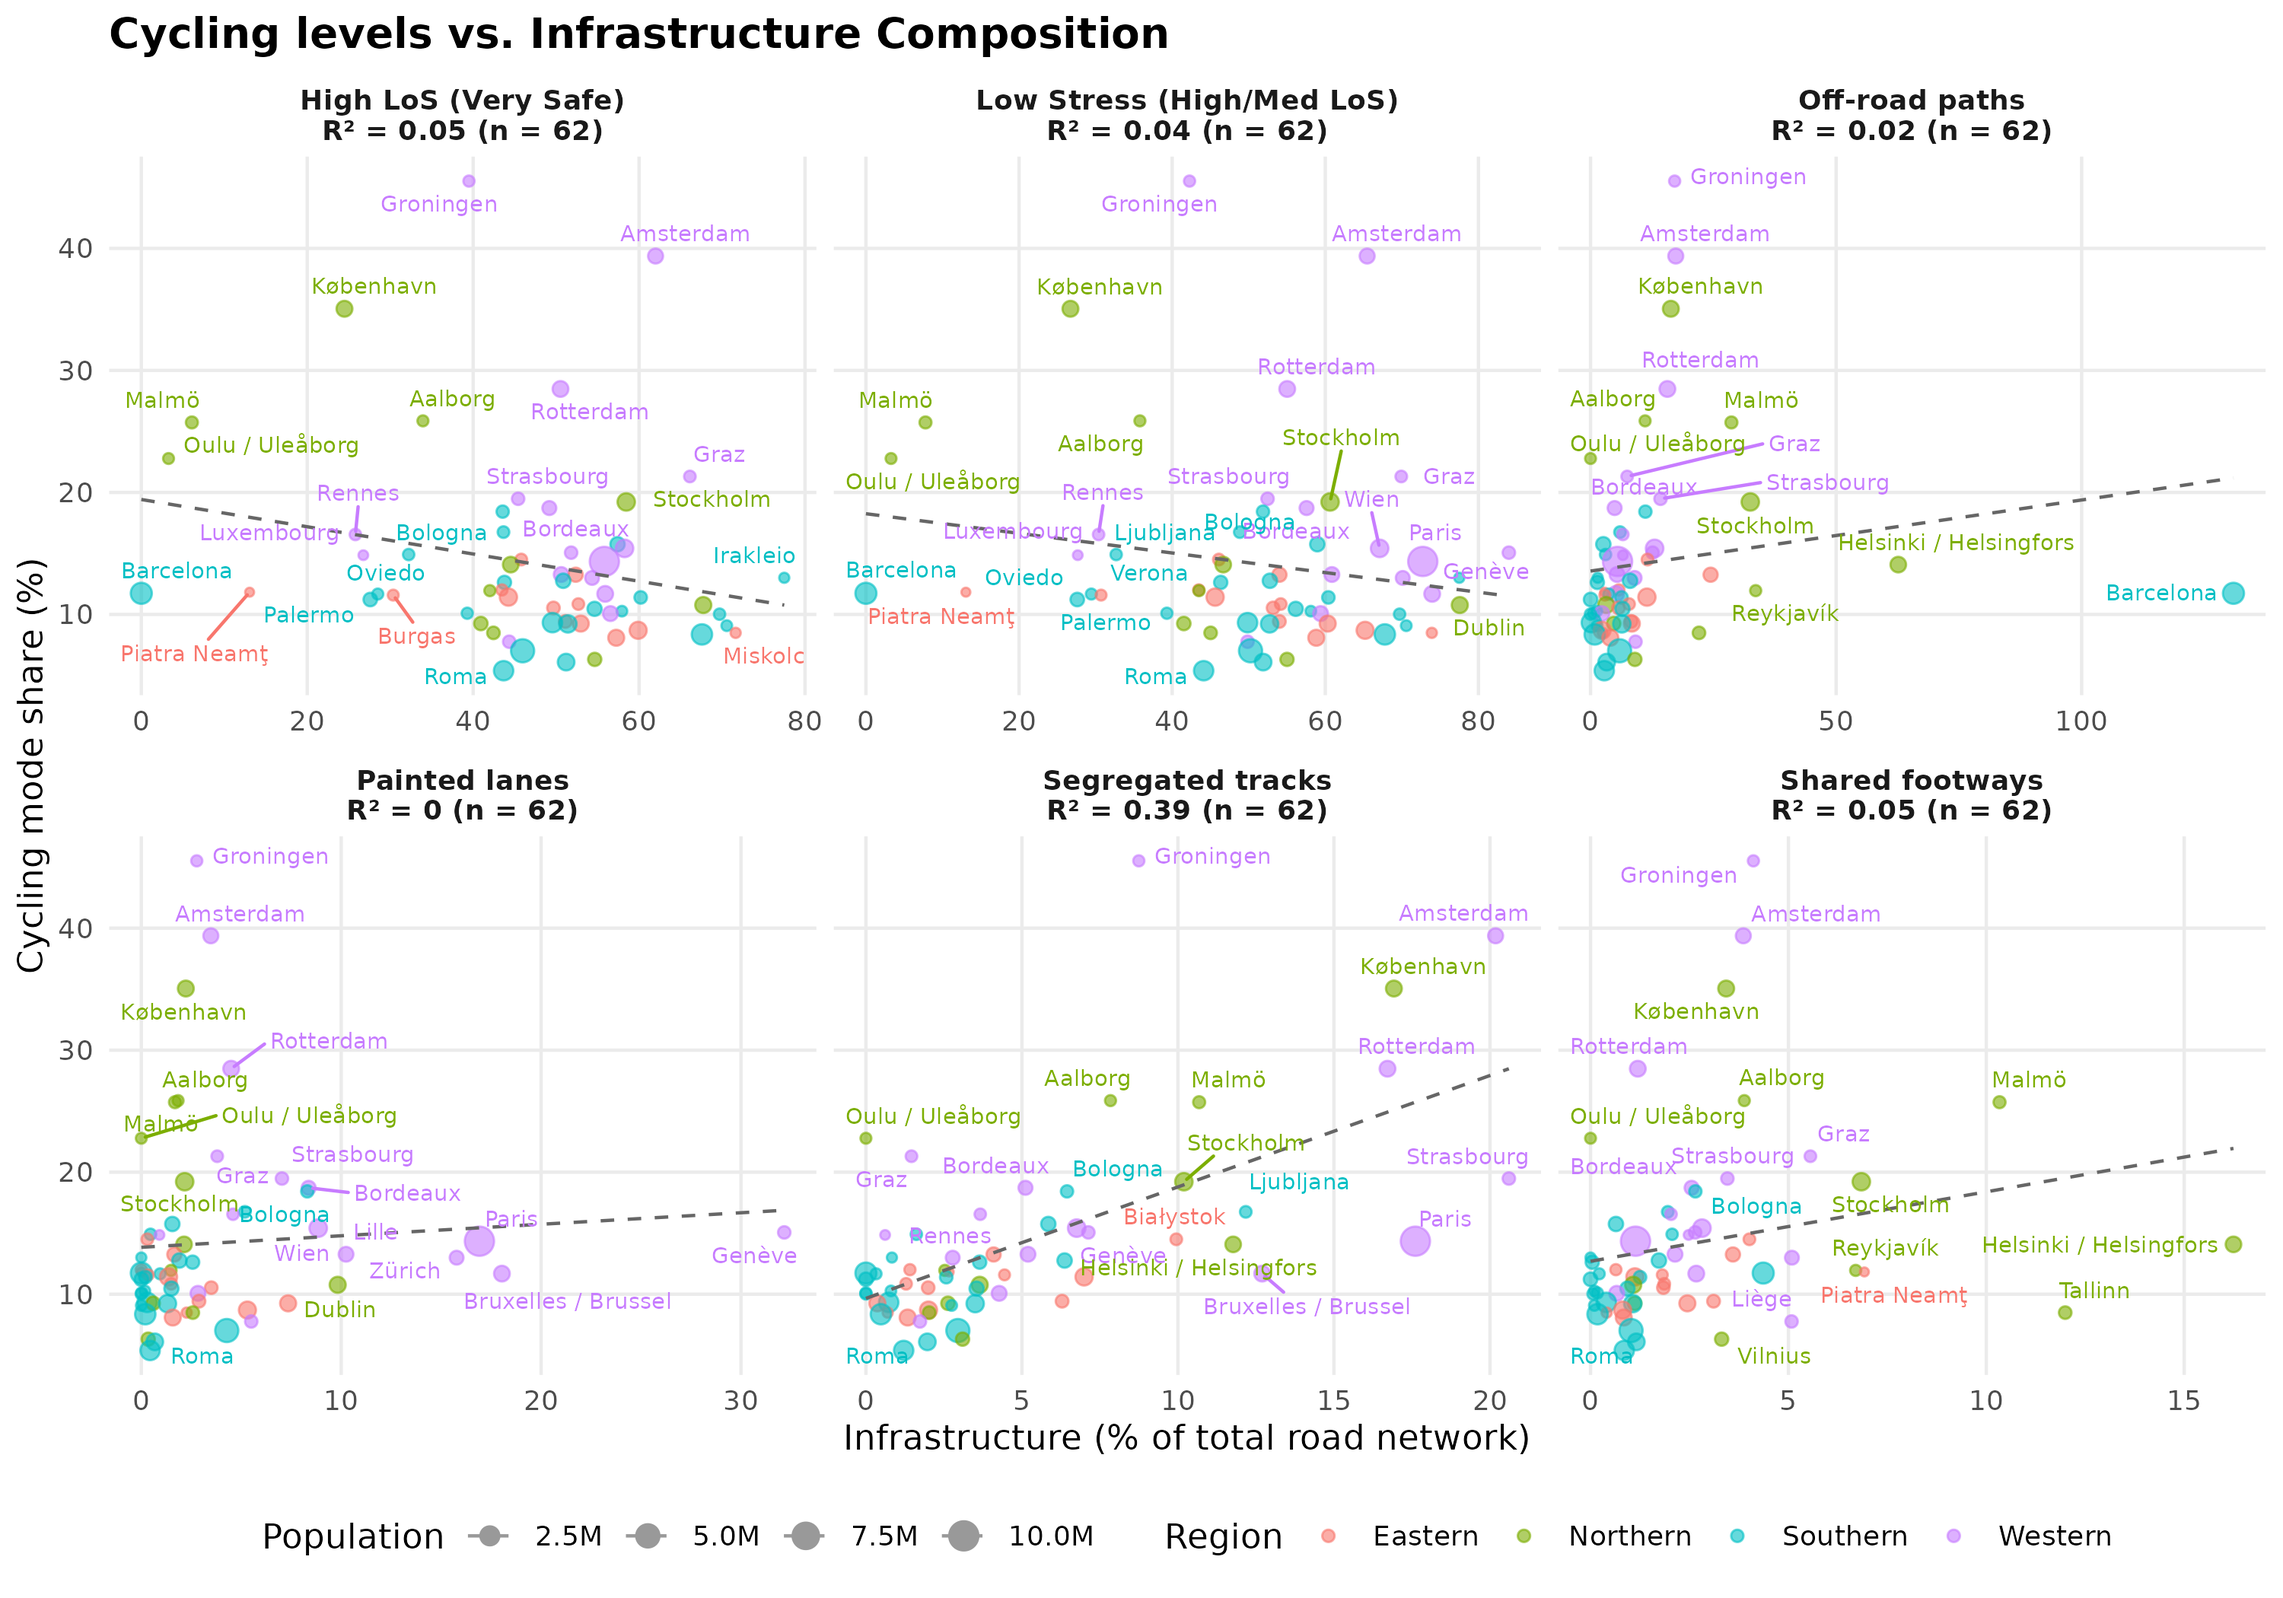
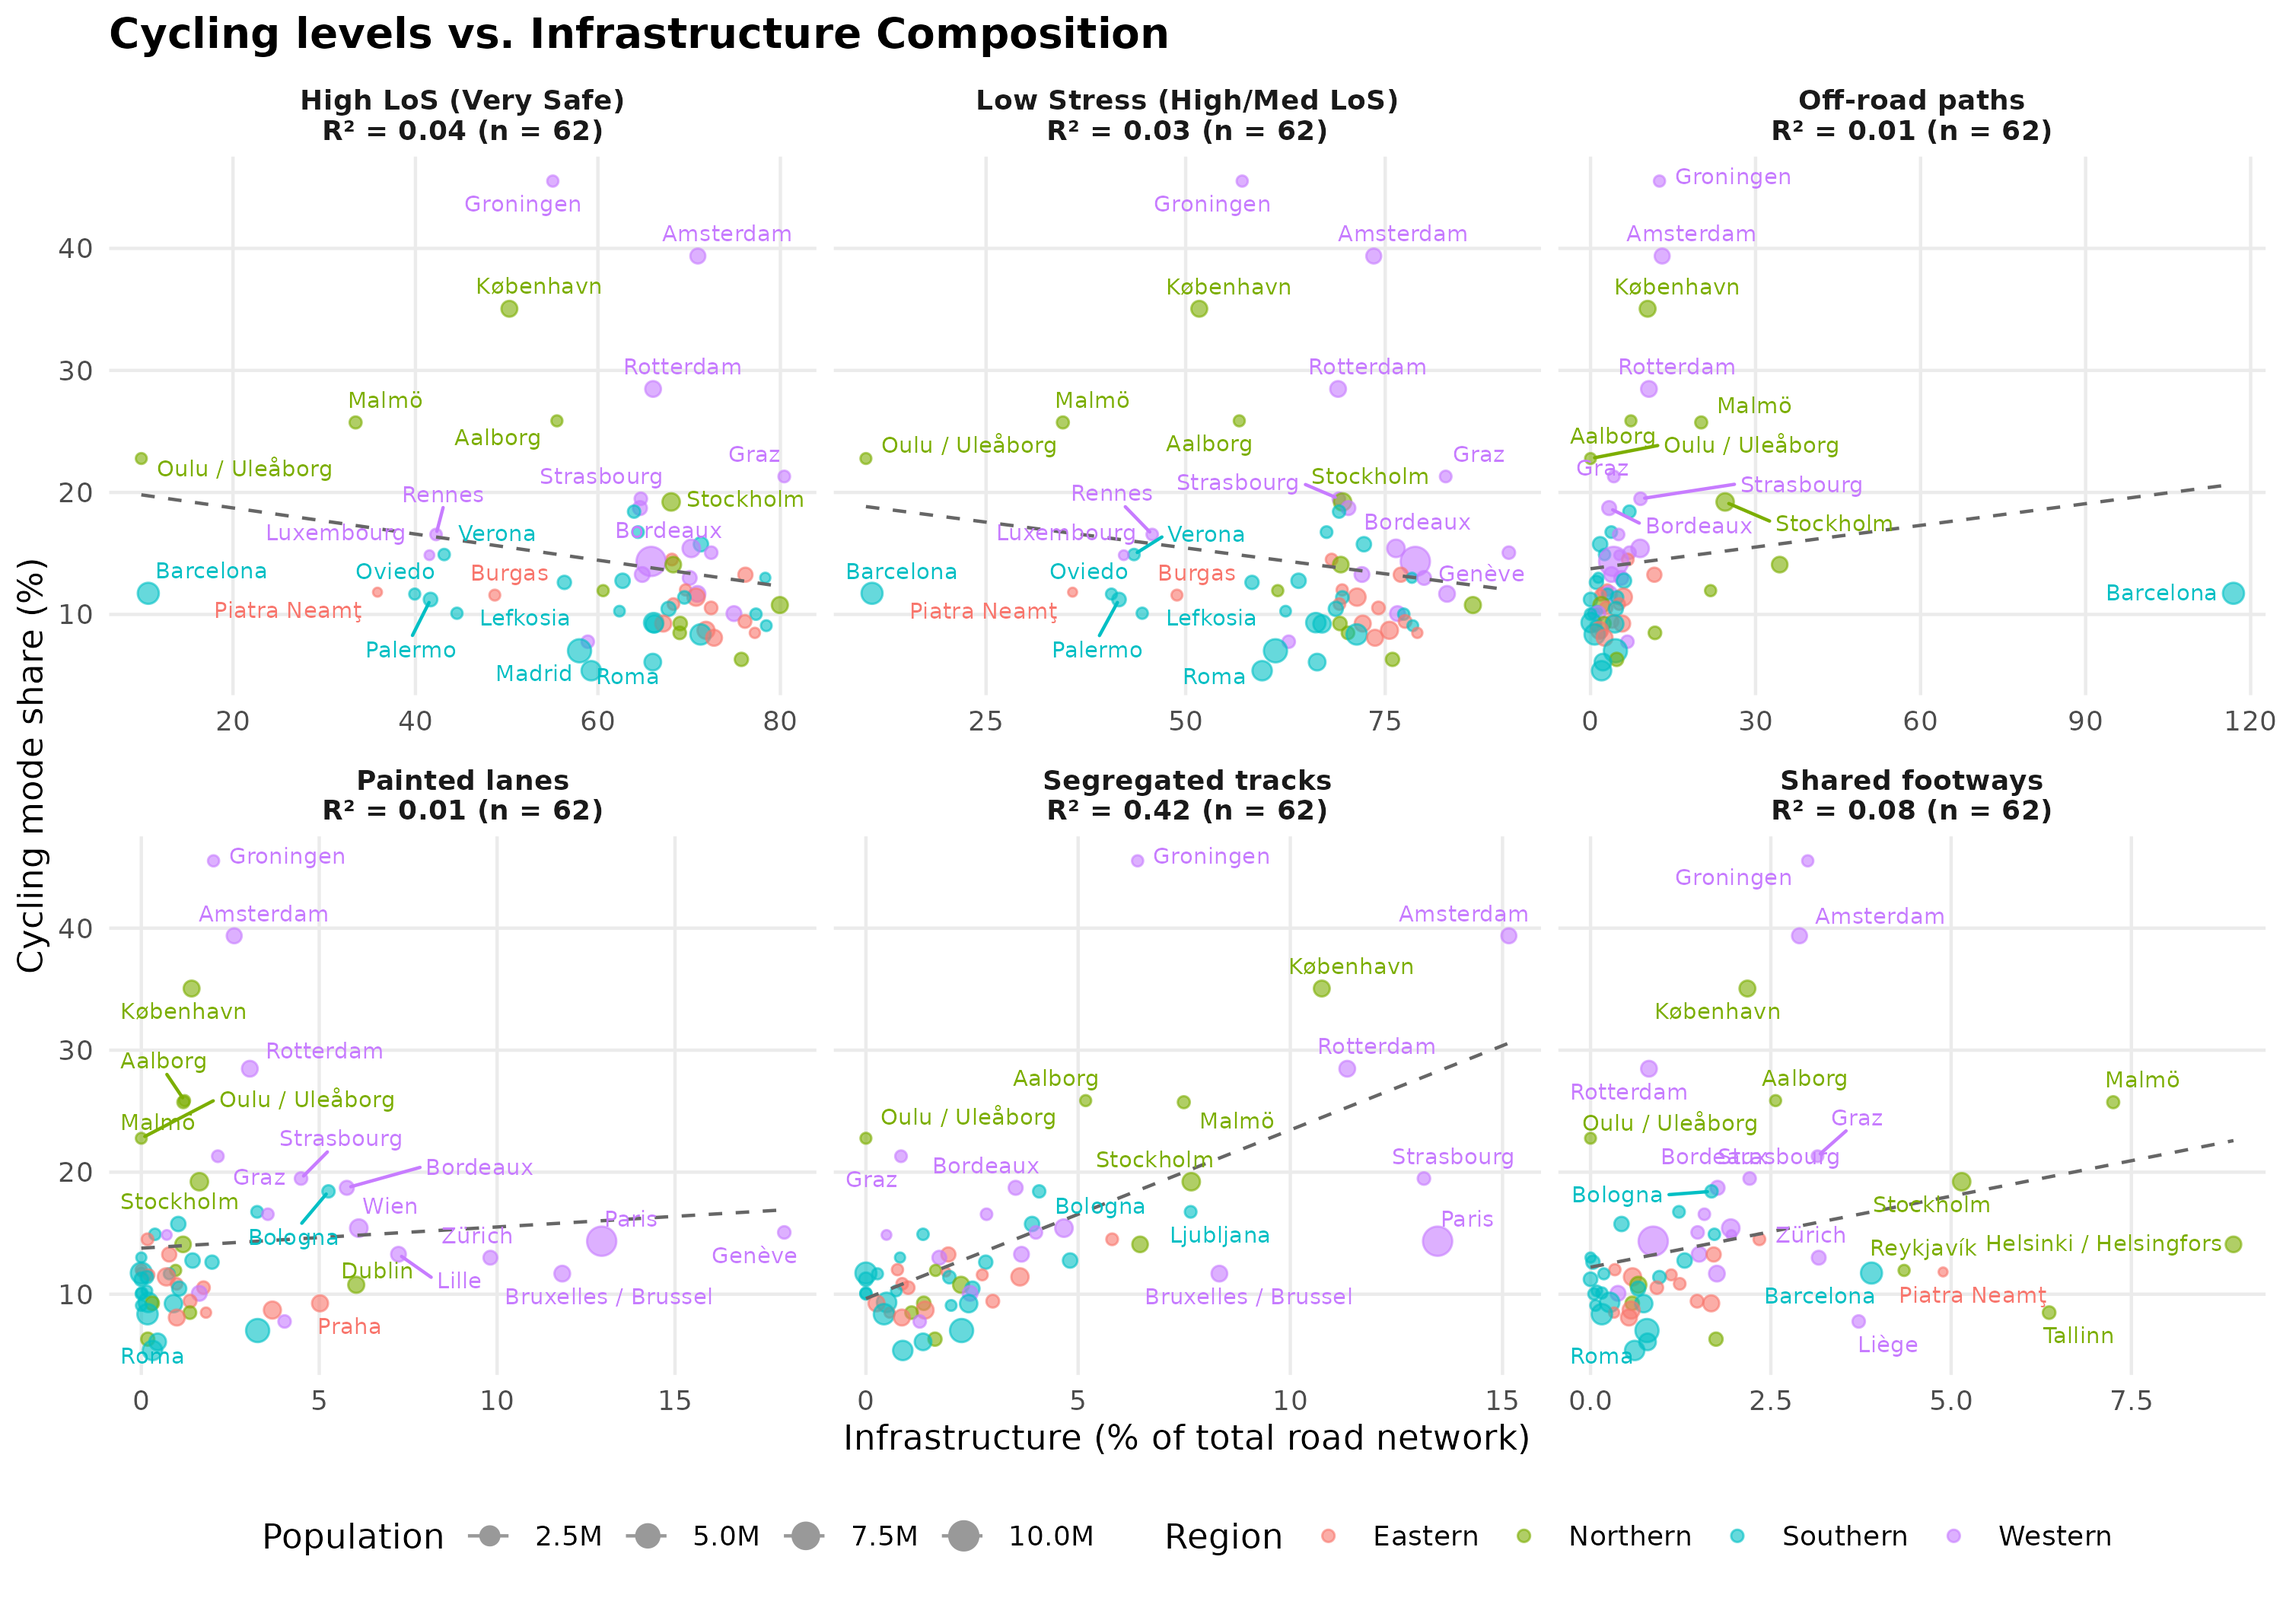
Update paper with correlation table and improved road network analysis

diff --git a/paper.md b/paper.md
@@ -107,11 +107,32 @@ the total road network), colored by European region.
 
 The analysis reveals varying degrees of association between
 infrastructure types and cycling levels when normalized by the total
-road network. Segregated tracks show a strong correlation of $R^2 =$
-0.386632.
+road network.
+
+<div id="tbl-correlations">
+
+Table 2: Correlation between different cycling infrastructure measures
+and cycling mode share.
+
+<div class="cell-output-display">
+
+| Metric                    | Cities (n) | Correlation (r) | R-squared |
+|:--------------------------|-----------:|----------------:|----------:|
+| Segregated tracks         |         62 |           0.645 |     0.416 |
+| Shared footways           |         62 |           0.277 |     0.077 |
+| Off-road paths            |         62 |           0.120 |     0.014 |
+| Painted lanes             |         62 |           0.078 |     0.006 |
+| Low Stress (High/Med LoS) |         62 |          -0.178 |     0.032 |
+| High LoS (Very Safe)      |         62 |          -0.209 |     0.044 |
+
+</div>
+
+</div>
+
+Segregated tracks show a strong correlation of $R^2 =$ 0.42.
 
 Surprisingly, the **Low Stress (High/Med LoS)** network shows a weak
-negative correlation ($r = -0.19$). This suggests that a high proportion
+negative correlation ($r = -0.18$). This suggests that a high proportion
 of low-traffic residential streets does not automatically lead to high
 cycling levels. In many cases, cities with very high percentages of “low
 stress” streets are lower-density urban areas where these streets lack
@@ -123,7 +144,7 @@ to make cycling a viable transport option across the city.
 The analysis reveals a clear hierarchy in the relationship between
 infrastructure types and cycling levels. **Segregated tracks**
 demonstrate the strongest positive correlation with cycling mode share
-($R^2 \approx 0.39$), supporting the hypothesis that physical separation
+($R^2 \approx 0.42$), supporting the hypothesis that physical separation
 from motor traffic is the single most important infrastructure feature
 enabling higher cycling levels.
 
@@ -141,7 +162,7 @@ in cycling.
 
 ### Limitations
 
-- **Data Completeness:** Data retrieval was successful for 66 out of 69
+- **Data Completeness:** Data retrieval was successful for 69 out of 69
   cities. Some cities (particularly in France and Spain) are missing due
   to data provider issues.
 - **OSM Quality:** The analysis relies on OpenStreetMap data
